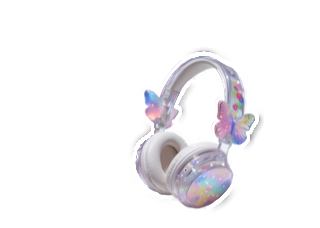
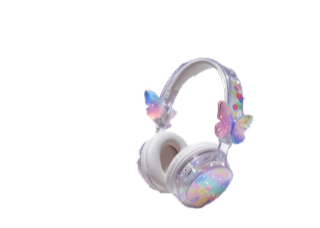
Blue Shades glitch cover, headphones defringe, robust sticker persistence
- Swap Blue Shades album art (page + gallery) to the glitch cover
- Defringe the headphones sticker (remove white halo)
- Home stickers now persist position/order on every change (guarded), so they
  always stay put until moved

diff --git a/src/app/DraggableSticker.tsx b/src/app/DraggableSticker.tsx
@@ -37,6 +37,7 @@ export default function DraggableSticker({
   const [pos, setPos] = useState({ x: initialX, y: initialY });
   const [z, setZ] = useState(BASE_Z);
   const [dragging, setDragging] = useState(false);
+  const [ready, setReady] = useState(false);
   const offset = useRef({ x: 0, y: 0 });
   // Refs mirror the latest pos/z synchronously so saving never reads a stale
   // value from a render that hasn't committed yet (e.g. a quick drag-release).
@@ -75,8 +76,17 @@ export default function DraggableSticker({
     } catch {
       // ignore unavailable/corrupt storage
     }
+    setReady(true);
     // eslint-disable-next-line react-hooks/exhaustive-deps
   }, []);
+
+  // Persist the moment position / stacking order changes (after the initial
+  // restore), so a sticker always stays exactly where it was left.
+  useEffect(() => {
+    if (!ready) return;
+    persist();
+    // eslint-disable-next-line react-hooks/exhaustive-deps
+  }, [pos, z, ready]);
 
   // Bring this sticker to the front of the stack.
   function bringToFront() {

diff --git a/src/app/blue-shades/page.tsx b/src/app/blue-shades/page.tsx
@@ -6,7 +6,7 @@ export default function BlueShadesPage() {
       artist="Blue Shades"
       album="squished rainbows!!!!"
       accent="#2f6fb5"
-      cover="/friday/covers/blue-shades.png"
+      cover="/friday/covers/blue-shades-glitch.png"
       released="released 2026 · after school music club"
       about="Recorded at The Oregon Episcopal School"
       tags={["after school", "beats", "demo"]}

diff --git a/src/app/friday/page.tsx b/src/app/friday/page.tsx
@@ -10,7 +10,7 @@ const COVERS: { src: string; alt: string; href?: string }[] = [
     href: "/alexa-nora",
   },
   {
-    src: "/friday/covers/blue-shades.png",
+    src: "/friday/covers/blue-shades-glitch.png",
     alt: "Rosie and Luna are Blue Shades",
     href: "/blue-shades",
   },